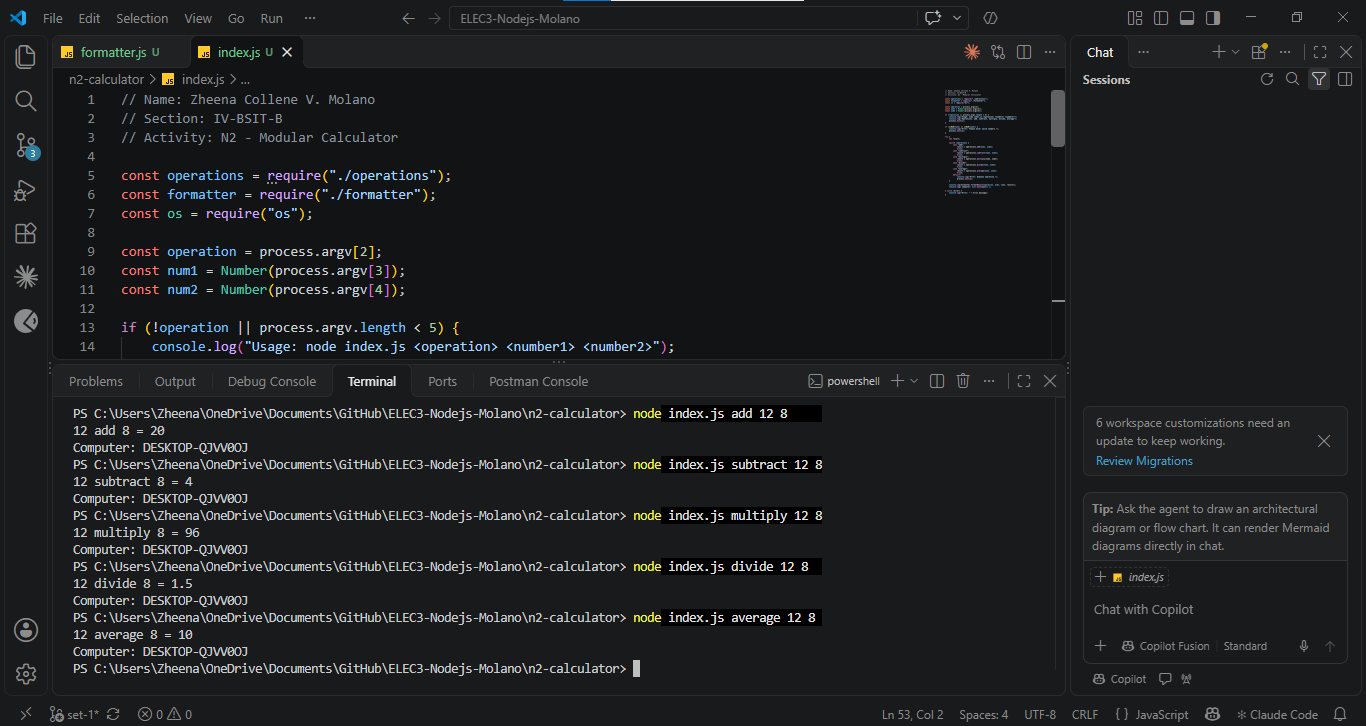
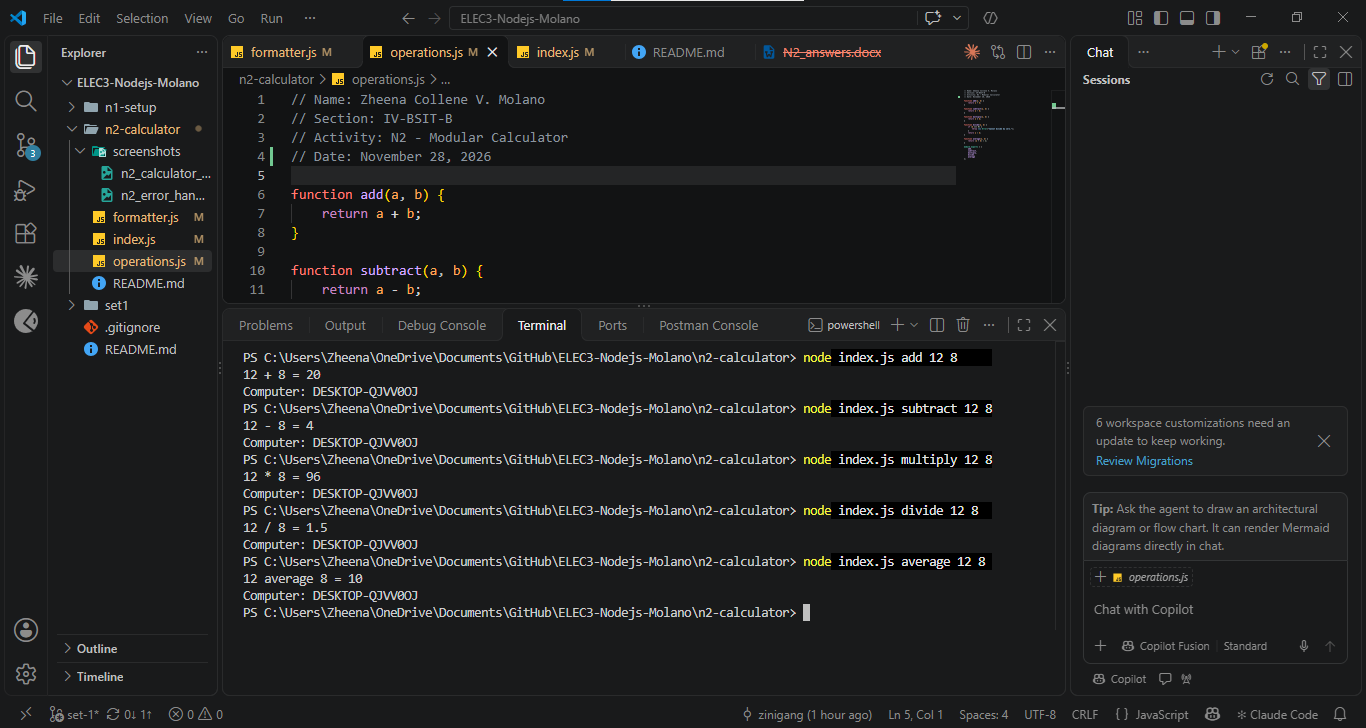
N2: Update source headers and add screenshots
Added the required date headers to the source files and updated screenshots showing calculator operations and error handling.

diff --git a/n2-calculator/index.js b/n2-calculator/index.js
@@ -1,6 +1,7 @@
 // Name: Zheena Collene V. Molano
 // Section: IV-BSIT-B
 // Activity: N2 - Modular Calculator
+// Date: November 28, 2026
 
 const operations = require("./operations");
 const formatter = require("./formatter");

diff --git a/n2-calculator/formatter.js b/n2-calculator/formatter.js
@@ -1,6 +1,7 @@
 // Name: Zheena Collene V. Molano
 // Section: IV-BSIT-B
 // Activity: N2 - Modular Calculator
+// Date: November 28, 2026
 
 function formatResult(operation, num1, num2, result) {
     const symbols = {

diff --git a/n2-calculator/operations.js b/n2-calculator/operations.js
@@ -1,6 +1,7 @@
 // Name: Zheena Collene V. Molano
 // Section: IV-BSIT-B
 // Activity: N2 - Modular Calculator
+// Date: November 28, 2026
 
 function add(a, b) {
     return a + b;
